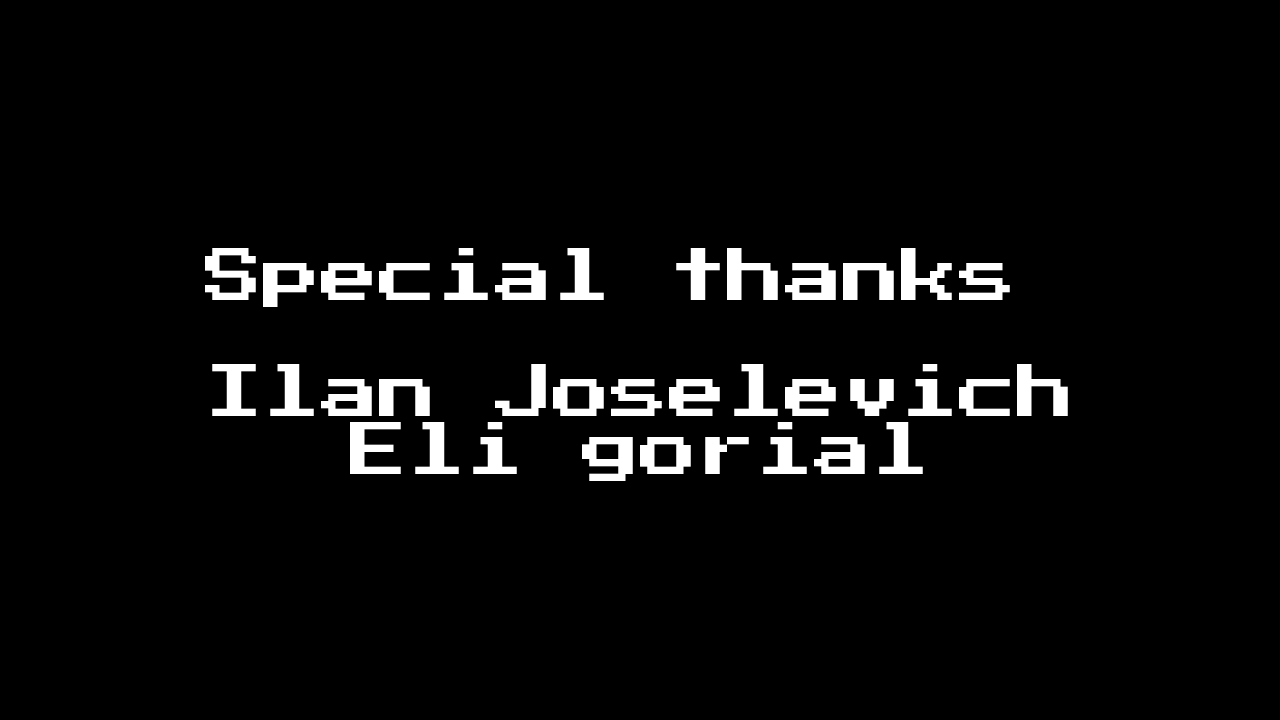
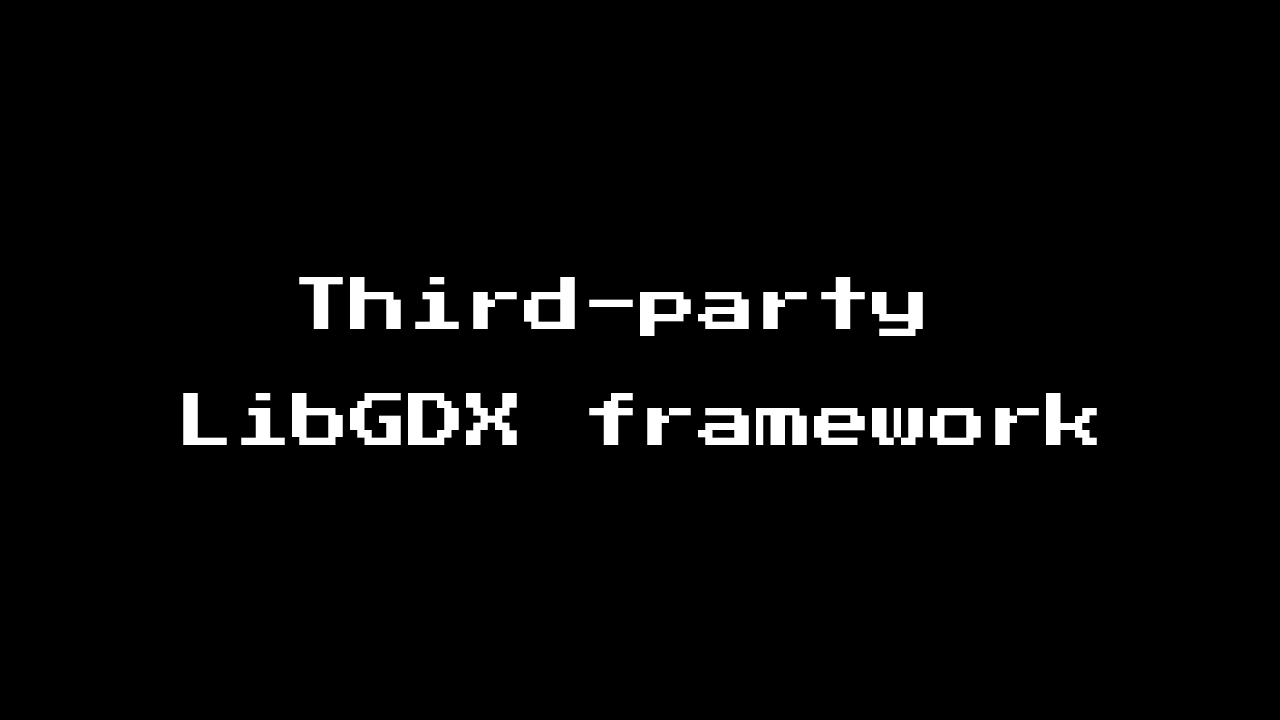
now you can mute the music

Changed region(s): [[0.125, 0.4889, 0.875, 0.6722], [0.1562, 0.3361, 0.8125, 0.4889]]

diff --git a/core/src/com/mygdx/game/CreditsScreen.java b/core/src/com/mygdx/game/CreditsScreen.java
@@ -18,10 +18,10 @@ public class CreditsScreen implements Screen {
 
     //SFX
     Music CreditsMusic;
+    boolean isMusicPlaying;
 
     // graphics
     ObjectAnimation CreditsText;
-    Texture output;
     Texture BlankFrame;
 
 
@@ -29,15 +29,15 @@ public class CreditsScreen implements Screen {
         this.game = game;
 
         CreditsMusic = Gdx.audio.newMusic(Gdx.files.internal("creditsmusic.mp3"));
-        CreditsMusic.setVolume(0.4f);
+        CreditsMusic.setVolume(0.05f);
         CreditsMusic.play();
+        isMusicPlaying = true;
 
         CreditsText = new ObjectAnimation();
-        CreditsText.loadAnimation("creditsText_",15);
+        CreditsText.loadAnimation("creditsText_",14);
         BlankFrame = new Texture("creditsText_1.png");
 
 
-        output = BlankFrame;
         elapsedTime = 0;
         deltaTime = 0;
     }
@@ -53,13 +53,27 @@ public class CreditsScreen implements Screen {
         Gdx.gl.glClear(GL20.GL_COLOR_BUFFER_BIT);
         deltaTime = Gdx.graphics.getDeltaTime();
 
+
+
+        if(Gdx.input.isKeyJustPressed(Input.Keys.ENTER) && isMusicPlaying){
+            CreditsMusic.setVolume(0);
+            isMusicPlaying = false;
+        }
+        else if(Gdx.input.isKeyJustPressed(Input.Keys.ENTER) && !isMusicPlaying){
+            CreditsMusic.setVolume(0.05f);
+            isMusicPlaying = true;
+        }
+
+
+
+
+
         if(Gdx.input.isKeyPressed(Input.Keys.BACKSPACE)){
             dispose();
             game.setScreen(new MainMenuScreen(game));
         }
 
-        game.batch.begin();
-
+        // timer to end the credits
         elapsedTime += deltaTime;
         if(elapsedTime >= 119f){
             CreditsMusic.stop();
@@ -67,9 +81,11 @@ public class CreditsScreen implements Screen {
             game.setScreen(new MainMenuScreen(game));
         }
 
-        game.batch.draw(output,0,0,GameScreen.WORLD_WIDTH,GameScreen.WORLD_HEIGHT);
+        game.batch.begin();
 
-        output = CreditsText.getFrame(0.0001f);
+
+        game.batch.draw(CreditsText.getFrame(0.0001f),0,0,GameScreen.WORLD_WIDTH,GameScreen.WORLD_HEIGHT);
+
 
 
         game.batch.end();
@@ -99,7 +115,6 @@ public class CreditsScreen implements Screen {
     public void dispose() {
         CreditsMusic.dispose();
         CreditsText.dispose();
-        output.dispose();
         BlankFrame.dispose();
 
     }

diff --git a/core/src/com/mygdx/game/GameScreen.java b/core/src/com/mygdx/game/GameScreen.java
@@ -67,7 +67,6 @@ class GameScreen implements Screen {
 
         // Map graphics
         background = new Texture("genesis.png");
-        OutputAnimation = new Texture("player_dead_5.png");
 
         RadioActivePoolAnimation = new ObjectAnimation();
         RadioActivePoolAnimation.loadAnimation("RadioActivePoolAnimation_",5);
@@ -111,7 +110,6 @@ class GameScreen implements Screen {
             game.setScreen(new MainMenuScreen(game));
         }
 
-        OutputAnimation = RadioActivePoolAnimation.getFrame(0.009f);
 
         //updates the camera
         camera.update();
@@ -120,13 +118,15 @@ class GameScreen implements Screen {
         ////
         // BEGIN TO DRAW:
         ////
+
+
         game.batch.begin();
 
         // Draws map
         game.batch.draw(background,0,0,WORLD_WIDTH,WORLD_HEIGHT);
         // Draws RadioActivePool Animation
-        game.batch.draw(OutputAnimation,569,46,284,190);
-        game.batch.draw(OutputAnimation,1209,200,213,190);
+        game.batch.draw(RadioActivePoolAnimation.getFrame(0.005f),569,46,284,190);
+        game.batch.draw(RadioActivePoolAnimation.getFrame(0.005f),1209,200,213,190);
 
         // Draw the players
         for(Player players : Players){

diff --git a/core/src/com/mygdx/game/MainMenuScreen.java b/core/src/com/mygdx/game/MainMenuScreen.java
@@ -16,6 +16,7 @@ public class MainMenuScreen implements Screen {
 
 
     //SFX
+    boolean isMusicPlaying;
     Music ContaminationMusic;
 
     // graphics
@@ -32,6 +33,7 @@ public class MainMenuScreen implements Screen {
     public MainMenuScreen(contamination game){
         this.game = game;
 
+        isMusicPlaying = true;
 
         ContaminationMusic = Gdx.audio.newMusic(Gdx.files.internal("MenuMusic.mp3"));
         text = new Texture("text-contamination.png");
@@ -54,6 +56,17 @@ public class MainMenuScreen implements Screen {
     @Override
     public void render(float delta) {
         Gdx.gl.glClear(GL20.GL_COLOR_BUFFER_BIT);
+
+
+        if(Gdx.input.isKeyJustPressed(Input.Keys.ENTER) && isMusicPlaying){
+            ContaminationMusic.setVolume(0);
+            isMusicPlaying = false;
+        }
+        else if(Gdx.input.isKeyJustPressed(Input.Keys.ENTER) && !isMusicPlaying){
+            ContaminationMusic.setVolume(100);
+            isMusicPlaying = true;
+        }
+
         game.batch.begin();
 
 
